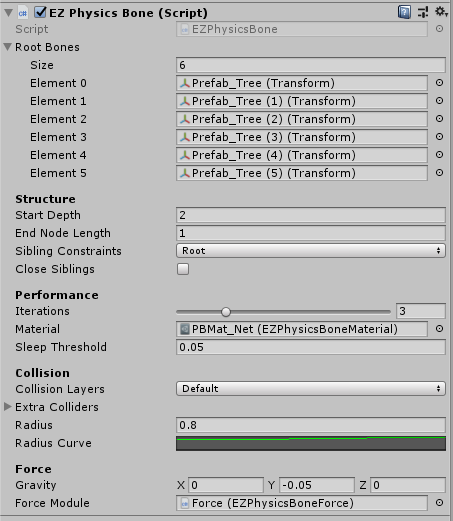
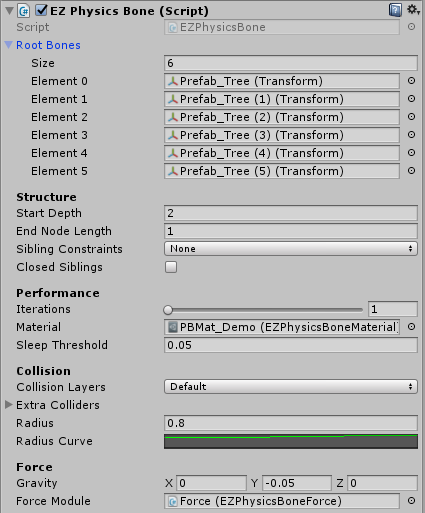
change property name

diff --git a/Runtime/EZPhysicsBone.cs b/Runtime/EZPhysicsBone.cs
@@ -206,8 +206,8 @@ namespace EZUnity.PhysicsBone
         public SiblingConstraints siblingConstraints { get { return m_SiblingConstraints; } }
 
         [SerializeField]
-        private bool m_CloseSiblings = false;
-        public bool closeSiblings { get { return m_CloseSiblings; } }
+        private bool m_ClosedSiblings = false;
+        public bool closedSiblings { get { return m_ClosedSiblings; } }
 
         [Header("Performance")]
         [SerializeField, Range(1, 10)]
@@ -330,7 +330,7 @@ namespace EZUnity.PhysicsBone
                 {
                     Queue<TreeNode> nodes = new Queue<TreeNode>();
                     nodes.Enqueue(m_PhysicsTrees[i]);
-                    SetSiblingsByDepth(nodes, closeSiblings);
+                    SetSiblingsByDepth(nodes, closedSiblings);
                 }
             }
             else if (siblingConstraints == SiblingConstraints.Depth)
@@ -340,7 +340,7 @@ namespace EZUnity.PhysicsBone
                 {
                     nodes.Enqueue(m_PhysicsTrees[i]);
                 }
-                if (nodes.Count > 0) SetSiblingsByDepth(nodes, closeSiblings);
+                if (nodes.Count > 0) SetSiblingsByDepth(nodes, closedSiblings);
             }
         }
         private void SetSiblingsByDepth(Queue<TreeNode> nodes, bool closed)

diff --git a/README.md b/README.md
@@ -21,7 +21,7 @@
     - None: 无同级约束（链）
     - Root: 约束同一个Root下深度相同的节点
     - Depth: 约束深度相同的节点
-  - CloseSiblings: 是否使用环状约束
+  - ClosedSiblings: 是否使用环状约束
 - Performance
   - Iterations: 迭代计算的次数
   - Material: 使用的材质(`EZPhysicsBoneMaterial`)，如果不指定，运行时会自动使用默认材质
